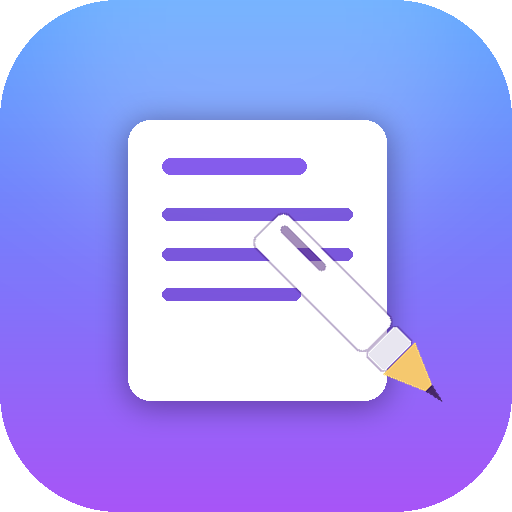
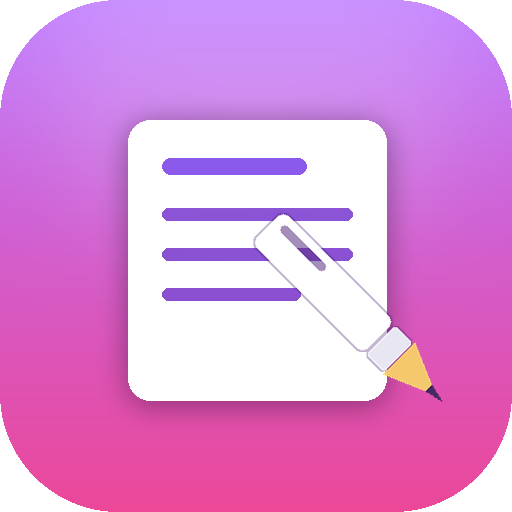
feat(assets): 图标 v3——底色恢复亮紫→粉渐变，保留笔写文件前景

diff --git a/assets/gen_icon.py b/assets/gen_icon.py
@@ -3,9 +3,9 @@
 from PIL import Image, ImageDraw, ImageFilter
 
 S = 512  # 画布尺寸
-# 底色：亮蓝 → Marco 紫（比紫→粉更偏蓝）
-C1 = (77, 157, 255)    # #4d9dff 亮蓝
-C2 = (168, 85, 247)    # #a855f7 Marco 紫
+# 底色：亮紫 → 粉（Marco 主题渐变，v1 版配色）
+C1 = (186, 113, 255)   # #ba71ff 亮紫
+C2 = (236, 72, 153)    # #ec4899 Marco 粉
 
 img = Image.new("RGBA", (S, S), (0, 0, 0, 0))
 
